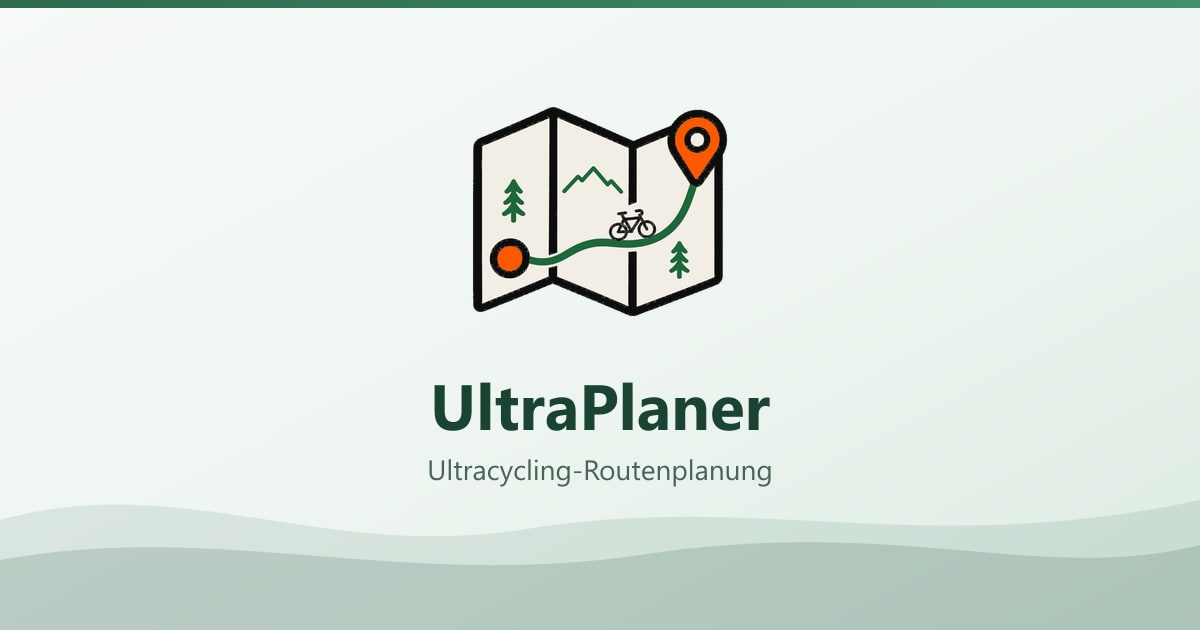
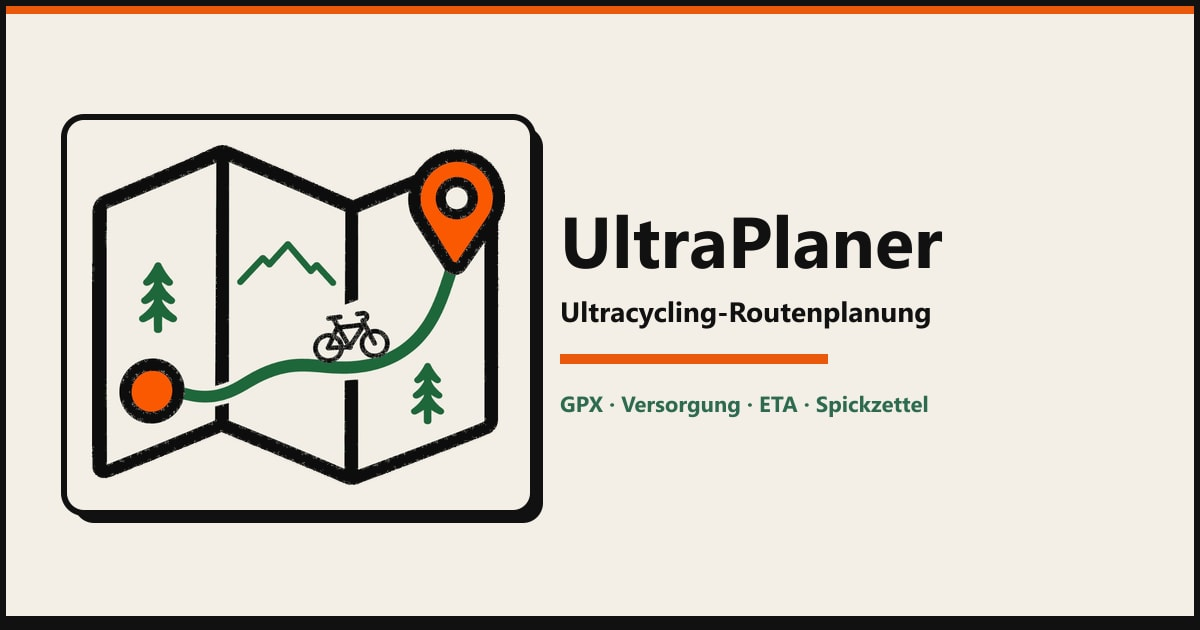
Match social share cards to the cream neo-brutalist mark so previews no longer show the old mint layout.

diff --git a/index.html b/index.html
@@ -86,7 +86,7 @@
       property="og:description"
       content="GPX laden oder Route planen. Versorgung, Kontrollpunkte, Höhenprofil, ETA und Spickzettel — Europa (61 Regionen). Wahoo-Cloud, GPX/FIT."
     />
-    <meta property="og:image" content="https://ultraplaner.com/og-image.jpg" />
+    <meta property="og:image" content="https://ultraplaner.com/og-image.jpg?v=3" />
     <meta property="og:image:width" content="1200" />
     <meta property="og:image:height" content="630" />
     <meta property="og:image:alt" content="UltraPlaner – Ultracycling Routenplanung" />
@@ -98,7 +98,7 @@
       name="twitter:description"
       content="Radroute planen, Versorgungspunkte finden, Höhenprofil &amp; Spickzettel für Ultracycling in Europa."
     />
-    <meta name="twitter:image" content="https://ultraplaner.com/og-image.jpg" />
+    <meta name="twitter:image" content="https://ultraplaner.com/og-image.jpg?v=3" />
 
     <script type="application/ld+json" id="ld-landing">
       {
@@ -114,7 +114,7 @@
             "browserRequirements": "Requires JavaScript. HTML5.",
             "inLanguage": ["de", "en", "es", "fr"],
             "description": "Kostenlose Ultracycling-Routenplanung mit Versorgungspunkten, Kontrollpunkten, Höhenprofil, ETA, Spickzettel und Export (Wahoo-Cloud, GPX/FIT) für 61 Regionen in Europa.",
-            "image": "https://ultraplaner.com/og-image.jpg",
+            "image": "https://ultraplaner.com/og-image.jpg?v=3",
             "offers": {
               "@type": "Offer",
               "price": 0,
